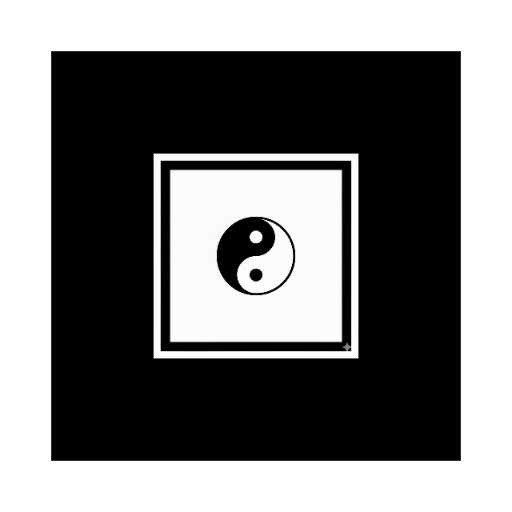
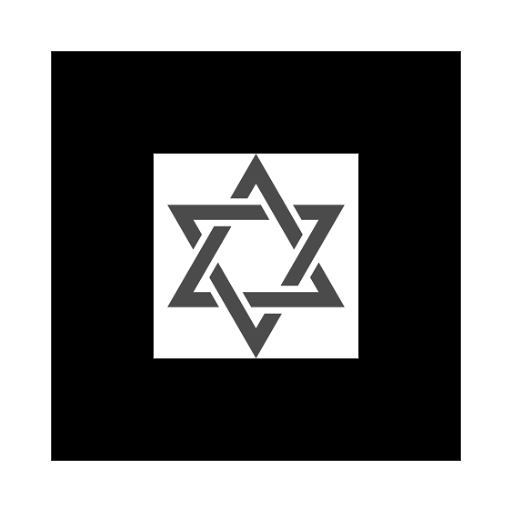
change marker and add button for AR camera

Changed region(s): [[0.3125, 0.3125, 0.6875, 0.6875]]

diff --git a/my_node_server/public/stamp.html b/my_node_server/public/stamp.html
@@ -10,6 +10,9 @@
     <body>
         <div class="content-wrapper">
             <h2>全てのスタンプを集めると<br>何か起こるかも…？</h2>
+            <div class="action" style="margin-bottom: 1em;">
+                <a href="contents.html" class="button-link">ARの世界へ</a>
+            </div>
             <!-- スタンプラリー表示 -->
             <div>
                 <div id="stamp-complete" class="stamp-complete">おめでとうございます！<br>全スタンプをコンプリートしました！</div>
